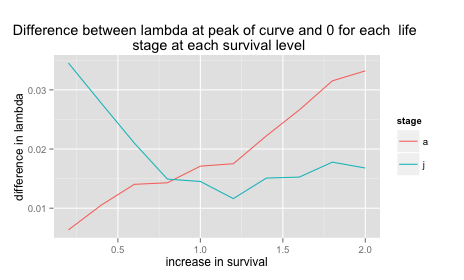
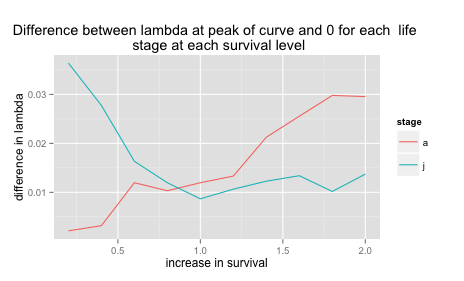
Played around with predation and migration on different life history parameters. Put all the csv results files in their own folder.

diff --git a/trap_model_manduscript.html b/trap_model_manduscript.html
@@ -277,11 +277,15 @@ Non-predator|0.5591|0.1644|0.3472|0.6621</p>
 
 <h3>Global elasticity of the value of poor information</h3>
 
-<p>Any amount of migration causes there to be some value in poor information on the population level (the peak of this curve to is above zero, see Fig 2). However, the difference between the peak of the metapopulation growth rate and the growth rate of the low-predation patch by itself (dispersal rate of 0) depends on predation and survival of each life stage (fig 3). Increasing the adult survival decreases the value of having a proportion of juveniles disperse to the high-predation patch. Increasing juvenile survival increased the value of having a proportion of juveniles disperse to the high=predation patch.</p>
+<p>Any amount of migration causes there to be some value in poor information on the population level (the peak of this curve to is above zero, see Fig 2). However, the difference between the peak of the metapopulation growth rate and the growth rate of the low-predation patch by itself (dispersal rate of 0) depends on predation and survival of each life stage (fig 3a). Increasing the adult survival decreases the value of having a proportion of juveniles disperse to the high-predation patch. Increasing juvenile survival increased the value of having a proportion of juveniles disperse to the high=predation patch.</p>
+
+<p>This pattern changes with different life history strategies. If adults experince predation instead of juveniles, but juveniles are still the dispersers, increases in adult survival still leads to lowering the fitness value of dispersal toward the trap(figure 3b). Allowing adults to disperse instead of juveniles causes increases in adult survival to raise the fitness value of dispersing toward the trap (figure 3c). However, for a given set of survival and fecundity parameters, the value of the trap is lower when adults disperse than when juveniles disperse. </p>
 
 <p><img src="figure/figure3.pdf" alt="Figure 3a. The difference between log λs at dispersal=0 and the peak  of the dispersal-growth rate curve shown in fig. 1 when the survivorship of each life stage for every year type is increased or decreased. This can also be thought of as the value of poor information"/></p>
 
-<p><img src="figures/lamdiff%20adult%20dispersal.png" alt="Figure 3b. The difference between log λs at dispersal=0 and the peak  of the dispersal-growth rate curve when adults disperse and juveniles do not disperse when the survivorship of each life stage for every year type is increased or decreased. This can also be thought of as the value of poor information"/></p>
+<p><img src="figures/lamdiff%20adult%20predation.png" alt="Figure 3b. The difference between log λs at dispersal=0 and the peak  of the dispersal-growth rate curve when juveniles disperse and adults experience predation when the survivorship of each life stage for every year type is increased or decreased. "/></p>
+
+<p><img src="figures/lamdiff%20adult%20dispersal.png" alt="Figure 3c. The difference between log λs at dispersal=0 and the peak  of the dispersal-growth rate curve when adults disperse and juveniles do not disperse when the survivorship of each life stage for every year type is increased or decreased. "/></p>
 
 <h3>Spatial autocorrelation</h3>
 
@@ -293,7 +297,7 @@ Non-predator|0.5591|0.1644|0.3472|0.6621</p>
 
 <p>Measuring extinction probabilities an idea of population stability in the long term. With the baseline vital rates, the population only experienced extinctions at very high predation levels (Data not shown). However, when the survival rate of adults was decreased by 40% in every scenario, the relationship between extinction probability and habitat preference was clear (figure 6). The lowest probability of extinction occurred when there was a slight preference for the low-predation patch. Extinction probabilities increased when there was total preference for the low-predation patch or preference for the high-predation patch. </p>
 
-<p><img src="figures/extinctino%20probabilites.png" alt="Figure 6. Probability of extinction in 500 years for the entire metapopulation versus dispersal to the high predation patch when the carrying capacity of each patch is 50 larvae per year. Average of 1000 model runs"/></p>
+<p><img src="figures/extinctino%20probabilities.png" alt="Figure 6. Probability of extinction in 500 years for the entire metapopulation versus dispersal to the high predation patch when the carrying capacity of each patch is 50 larvae per year. Average of 1000 model runs"/></p>
 
 <h2>Discussion:</h2>
 
